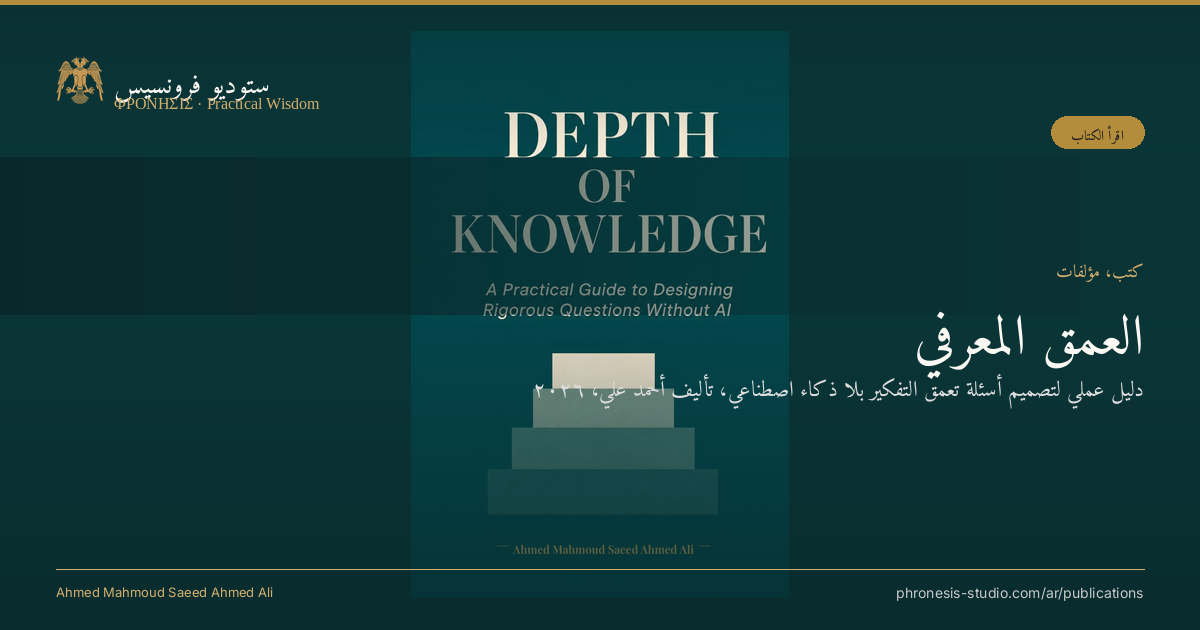
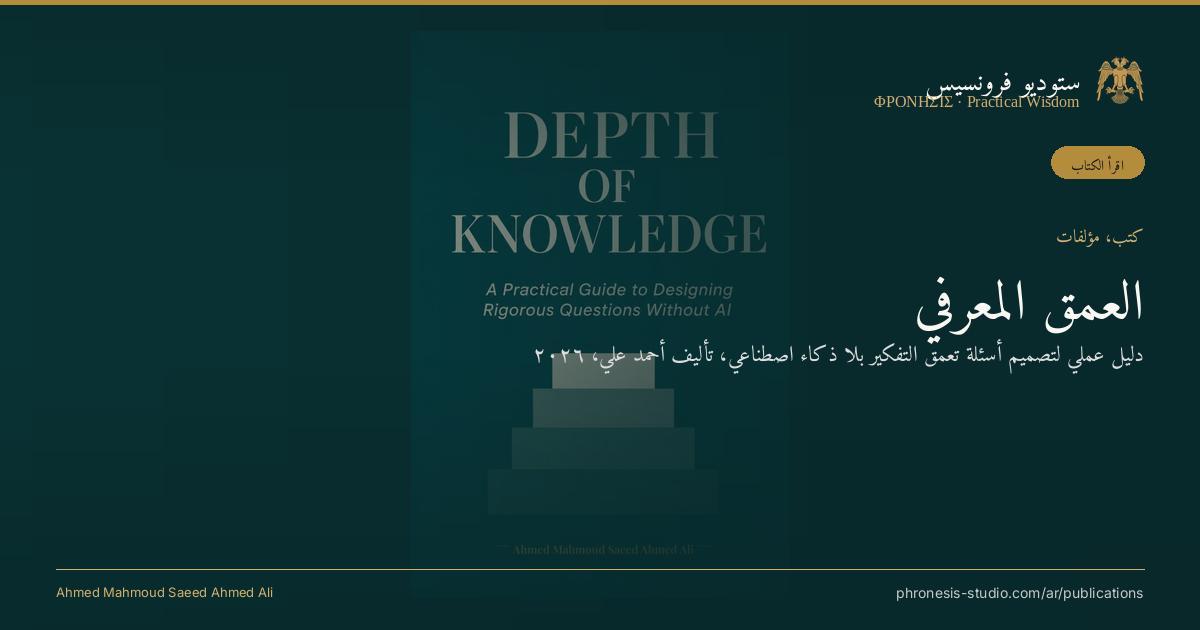
fix: regenerate Arabic OGs with proper dark gradient overlay matching English
Root cause: The PIL script was drawing three gradient overlays (left-to-right,
bottom-up, top-down) on a SINGLE overlay layer. In PIL, each line() call
OVERWRITES the previous one, so only the LAST gradient drawn affected any
given pixel. The result: pixels in the top quarter (where the header/logo
lives) only got the very faint top gradient; pixels in the bottom half
(where the text lives) only got the bottom gradient with no left-right
darkening. The English Satori version composites three CSS gradients
together via alpha blending — the PIL version was overwriting them.

Three fixes applied:

1. Gradient compositing bug: Use THREE SEPARATE overlay layers, one per
   gradient, and Image.alpha_composite them one at a time onto the
   background image. This mirrors exactly how Satori composites CSS
   linear-gradient layers. The three gradients are:
   - Horizontal 95deg: alpha 0.92 (left) → 0.80 (35%) → 0.50 (65%) → 0.25 (right)
   - Bottom-up: alpha 0.75 at bottom → transparent at 55% height
   - Top-down: alpha 0.50 at top → transparent at 30% height

2. RTL gradient mirroring: For Arabic (RTL), the horizontal gradient is
   MIRRORED so the dark side (alpha 0.92) is on the RIGHT (where the
   Arabic text sits), not on the LEFT. Without this, the Arabic text
   would sit on the LIGHT side of the gradient, defeating the purpose.

3. Home page now uses cover variant: The Arabic home OG previously had
   bg=None (cream default variant), while the English home OG used
[…]

diff --git a/scripts/generate_arabic_og.py b/scripts/generate_arabic_og.py
@@ -193,24 +193,80 @@ def generate_cover_og(
     else:
         bg = load_image_as_rgba(bg_full, (W, H))
 
-    # Apply dark teal gradient overlay (left-weighted)
-    overlay = Image.new("RGBA", (W, H), (0, 0, 0, 0))
-    overlay_draw = ImageDraw.Draw(overlay)
-    # Left-to-right gradient: dark on left, transparent on right
-    for x in range(W):
-        # Alpha goes from ~230 (left) to ~30 (right)
-        alpha = int(230 - (x / W) * 200)
-        overlay_draw.line([(x, 0), (x, H)], fill=(8, 40, 42, alpha))
-    # Bottom gradient
-    for y in range(H // 2, H):
-        alpha = int(((y - H // 2) / (H // 2)) * 180)
-        overlay_draw.line([(0, y), (W, y)], fill=(8, 40, 42, alpha))
-    # Top gradient
-    for y in range(H // 4):
-        alpha = int(80 - (y / (H // 4)) * 80)
-        overlay_draw.line([(0, y), (W, y)], fill=(8, 40, 42, alpha))
+    # Apply dark teal gradient overlay.
+    #
+    # The English Satori version composites THREE CSS gradients:
+    #   1. linear-gradient(95deg, dark 92% -> dark 25%): left-weighted horizontal
+    #   2. linear-gradient(to top, dark 75% -> transparent): bottom-up
+    #   3. linear-gradient(to bottom, dark 50% -> transparent): top-down
+    # Each gradient is alpha-blended on top of the previous, so they stack.
+    #
+    # In PIL, drawing multiple gradients on a single overlay layer causes
+    # each line() to OVERWRITE the previous one (only the last gradient
+    # drawn affects any given pixel). The fix: create a separate overlay
+    # for each gradient and alpha_composite them one at a time, exactly
+    # mirroring how Satori composites CSS gradients.
+    #
+    # For RTL (Arabic), the horizontal gradient is MIRRORED so the dark
+    # side is on the RIGHT (where the Arabic text is), matching how the
+    # Satori version would visually need to look for RTL.
+    is_rtl = True  # All Arabic OGs are RTL by definition
 
-    bg = Image.alpha_composite(bg, overlay)
+    # Layer 1: left-to-right (or right-to-left for RTL) horizontal gradient.
+    # 95deg in CSS: starts at 0% (left edge) and ends at 100% (right edge),
+    # with waypoints 0%→92%, 35%→80%, 65%→50%, 100%→25%.
+    overlay_lr = Image.new("RGBA", (W, H), (0, 0, 0, 0))
+    od_lr = ImageDraw.Draw(overlay_lr)
+    for x in range(W):
+        # Map x to 0-100% progress
+        progress = x / W
+        # Interpolate alpha through the same waypoints as the English Satori version
+        if progress < 0.35:
+            # 0% -> 35%: alpha goes from 0.92 (235) to 0.80 (204)
+            t = progress / 0.35
+            alpha = int(235 - t * (235 - 204))
+        elif progress < 0.65:
+            # 35% -> 65%: alpha goes from 0.80 (204) to 0.50 (128)
+            t = (progress - 0.35) / 0.30
+            alpha = int(204 - t * (204 - 128))
+        else:
+            # 65% -> 100%: alpha goes from 0.50 (128) to 0.25 (64)
+            t = (progress - 0.65) / 0.35
+            alpha = int(128 - t * (128 - 64))
+        # For RTL, mirror the gradient: dark on the right, light on the left
+        if is_rtl:
+            draw_x = W - 1 - x
+        else:
+            draw_x = x
+        od_lr.line([(draw_x, 0), (draw_x, H)], fill=(8, 40, 42, alpha))
+    bg = Image.alpha_composite(bg, overlay_lr)
+
+    # Layer 2: bottom-up gradient (dark at bottom, transparent at top).
+    # CSS: linear-gradient(to top, rgba(8,40,42,0.75) 0%, transparent 45%)
+    # → from y=H (bottom) fading up to y=H*0.55
+    overlay_bot = Image.new("RGBA", (W, H), (0, 0, 0, 0))
+    od_bot = ImageDraw.Draw(overlay_bot)
+    fade_start = int(H * 0.55)  # below this y, gradient kicks in
+    for y in range(fade_start, H):
+        # progress 0 at fade_start, 1 at H
+        t = (y - fade_start) / (H - fade_start)
+        # alpha goes from 0 (transparent) at top of gradient to 0.75 (191) at bottom
+        alpha = int(t * 191)
+        od_bot.line([(0, y), (W, y)], fill=(8, 40, 42, alpha))
+    bg = Image.alpha_composite(bg, overlay_bot)
+
+    # Layer 3: top-down gradient (dark at top, transparent below).
+    # CSS: linear-gradient(to bottom, rgba(8,40,42,0.50) 0%, transparent 30%)
+    # → from y=0 (top) fading down to y=H*0.30
+    overlay_top = Image.new("RGBA", (W, H), (0, 0, 0, 0))
+    od_top = ImageDraw.Draw(overlay_top)
+    fade_end = int(H * 0.30)
+    for y in range(0, fade_end):
+        # progress 1 at top (alpha 128 = 0.50), 0 at fade_end
+        t = 1 - (y / fade_end)
+        alpha = int(t * 128)
+        od_top.line([(0, y), (W, y)], fill=(8, 40, 42, alpha))
+    bg = Image.alpha_composite(bg, overlay_top)
 
     # Add gold top rule
     draw = ImageDraw.Draw(bg)
@@ -220,28 +276,41 @@ def generate_cover_og(
     eagle = Image.open(str(ROOT / eagle_path)).convert("RGBA")
     eagle_small = eagle.resize((48, 48), Image.LANCZOS)
 
-    # ── Header: eagle + studio name ──
+    # ── Header: eagle + studio name (RTL: top-RIGHT, with eagle on the right) ──
     padding = 56
-    # Eagle
-    bg.paste(eagle_small, (padding, padding), eagle_small)
-    # Studio name
+    # Compute studio text width first to position correctly
     font_studio = get_font("Amiri-Regular.ttf", 28)
     studio_text = "ستوديو فرونسيس"
     shaped_studio = shape_arabic(studio_text)
     studio_w = text_width(draw, shaped_studio, font_studio)
-    draw.text((padding + 48 + 10, padding + 5), shaped_studio, font=font_studio, fill=(250, 248, 243, 255))
-    # Greek motto
     font_motto = get_greek_font(16)
     motto_text = "ΦΡΟΝΗΣΙΣ · Practical Wisdom"
-    draw.text((padding + 48 + 10, padding + 38), motto_text, font=font_motto, fill=(212, 175, 110, 255))
+    motto_w = text_width(draw, motto_text, font_motto)
+    # For RTL: header sits at top-RIGHT. Layout: [text-block] [gap] [eagle], right-aligned.
+    # So eagle is at the rightmost position, text block to its LEFT.
+    eagle_size = 48
+    header_gap = 16  # spacing between eagle and text block
+    # The rightmost edge of the header block is at W - padding
+    eagle_x = W - padding - eagle_size
+    eagle_y = padding
+    bg.paste(eagle_small, (eagle_x, eagle_y), eagle_small)
+    # Text block to the left of the eagle, right-aligned to eagle_x - header_gap
+    text_block_right = eagle_x - header_gap
+    # Studio name: right-aligned ending at text_block_right
+    studio_x = text_block_right - studio_w
+    draw.text((studio_x, padding + 2), shaped_studio, font=font_studio, fill=(250, 248, 243, 255))
+    # Greek motto: right-aligned ending at text_block_right, below studio name with comfortable spacing
+    motto_x = text_block_right - motto_w
+    draw.text((motto_x, padding + 36), motto_text, font=font_motto, fill=(212, 175, 110, 255))
 
-    # ── Badge ──
+    # ── Badge (positioned below header, on the same side as the text block) ──
     if badge:
         font_badge = get_font("Amiri-Regular.ttf", 14)
         shaped_badge = shape_arabic(badge)
         badge_w = text_width(draw, shaped_badge, font_badge) + 40
-        badge_x = W - padding - badge_w
-        badge_y = padding + 60
+        # For RTL: badge sits above the title block, right-aligned (matching how English badge sits above title, left-aligned)
+        badge_x = W - padding - badge_w  # right-aligned
+        badge_y = padding + 90  # below the header block (eagle is 48px + motto is 16px below)
         # Gold pill background
         draw.rounded_rectangle(
             [(badge_x, badge_y), (badge_x + badge_w, badge_y + 32)],
@@ -254,7 +323,7 @@ def generate_cover_og(
     # ── Kicker ──
     font_kicker = get_font("Amiri-Regular.ttf", 18)
     shaped_kicker = shape_arabic(kicker)
-    kicker_y = padding + 200
+    kicker_y = padding + 165  # below the badge (badge ends at padding+90+32=padding+122, add 43px gap)
     kicker_w = text_width(draw, shaped_kicker, font_kicker)
     draw.text((W - padding - kicker_w, kicker_y), shaped_kicker, font=font_kicker, fill=(212, 175, 110, 255))
 
@@ -439,7 +508,7 @@ PAGES = {
         "subtitle": "إدراكُ موضعِ الخلل فيما هو كائن، وإيصاله إلى ما ينبغي أن يكون، على مقتضى الإحكام والانضباط.",
         "badge": "استكشف الممارسة",
         "footer": "phronesis-studio.com",
-        "bg": None,  # default variant
+        "bg": "hero-athens-poster.jpg",  # cover variant — matches English home OG
     },
     "about": {
         "kicker": "المؤسّس",
@@ -465,6 +534,7 @@ PAGES = {
         "badge": "تصفّح المكتبة",
         "footer": "phronesis-studio.com/ar/library",
         "bg": "library/mathematics.jpg",
+        "object_fit": "contain",  # matches English library OG
     },
     "method": {
         "kicker": "المنهج",
